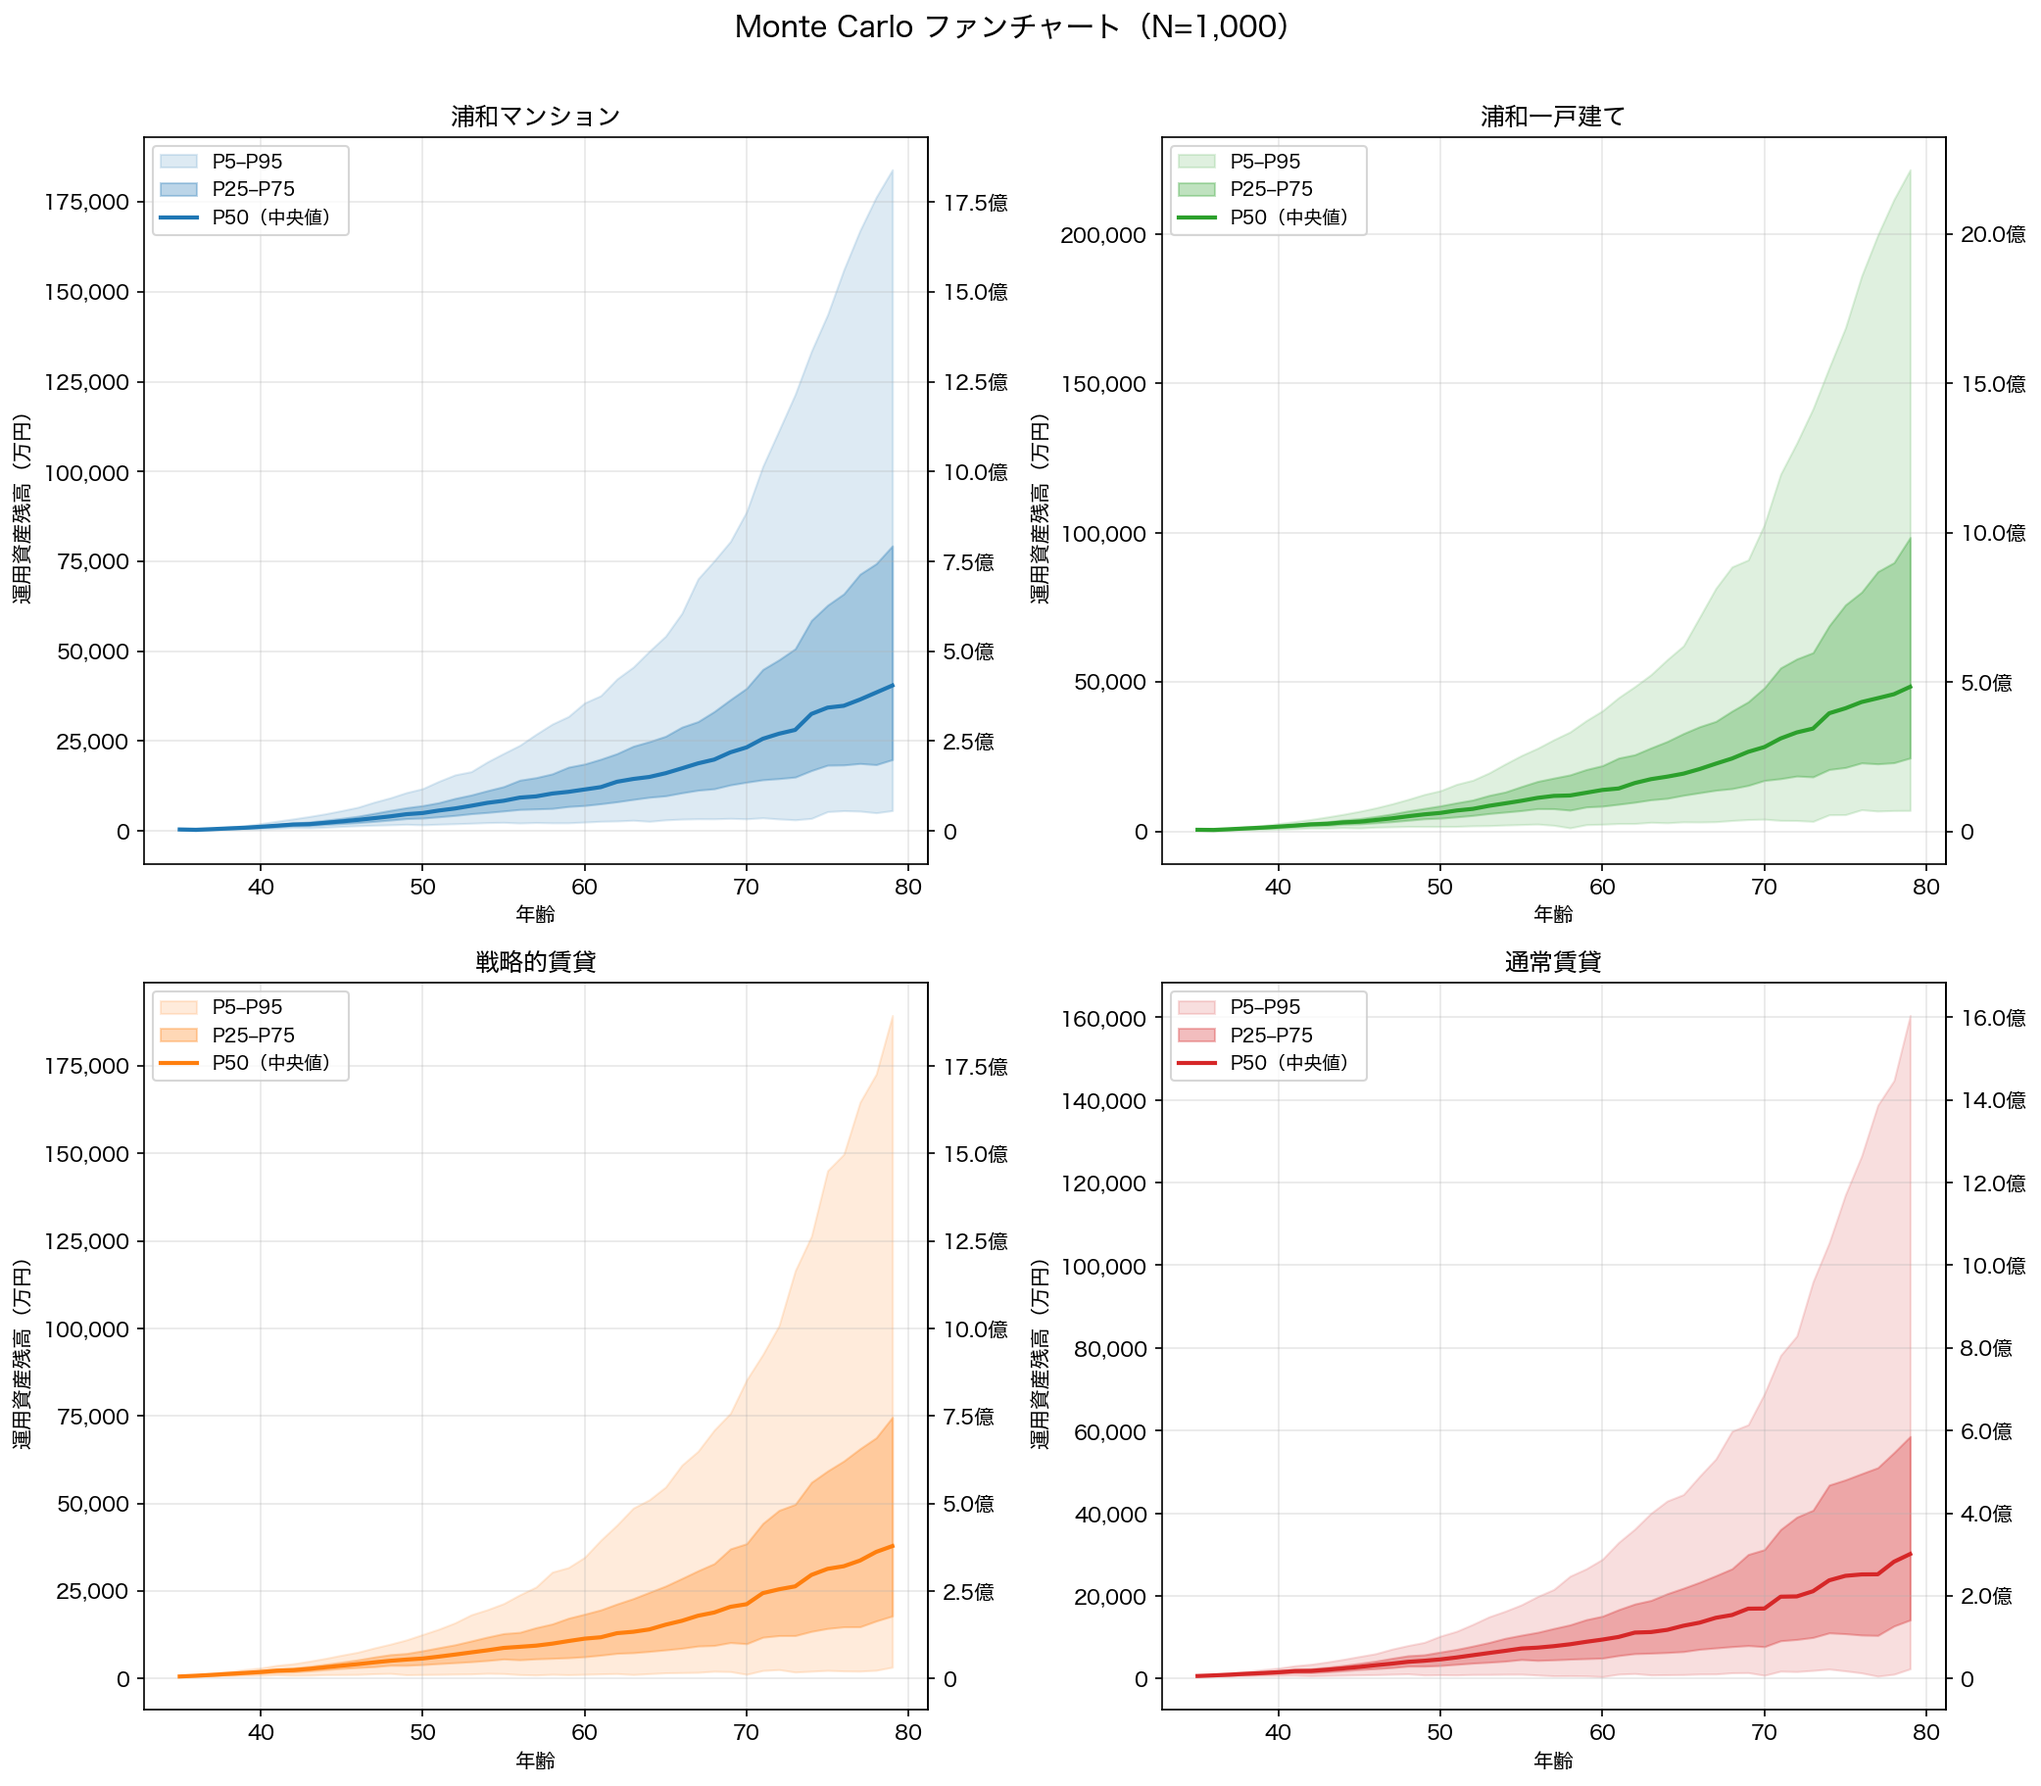
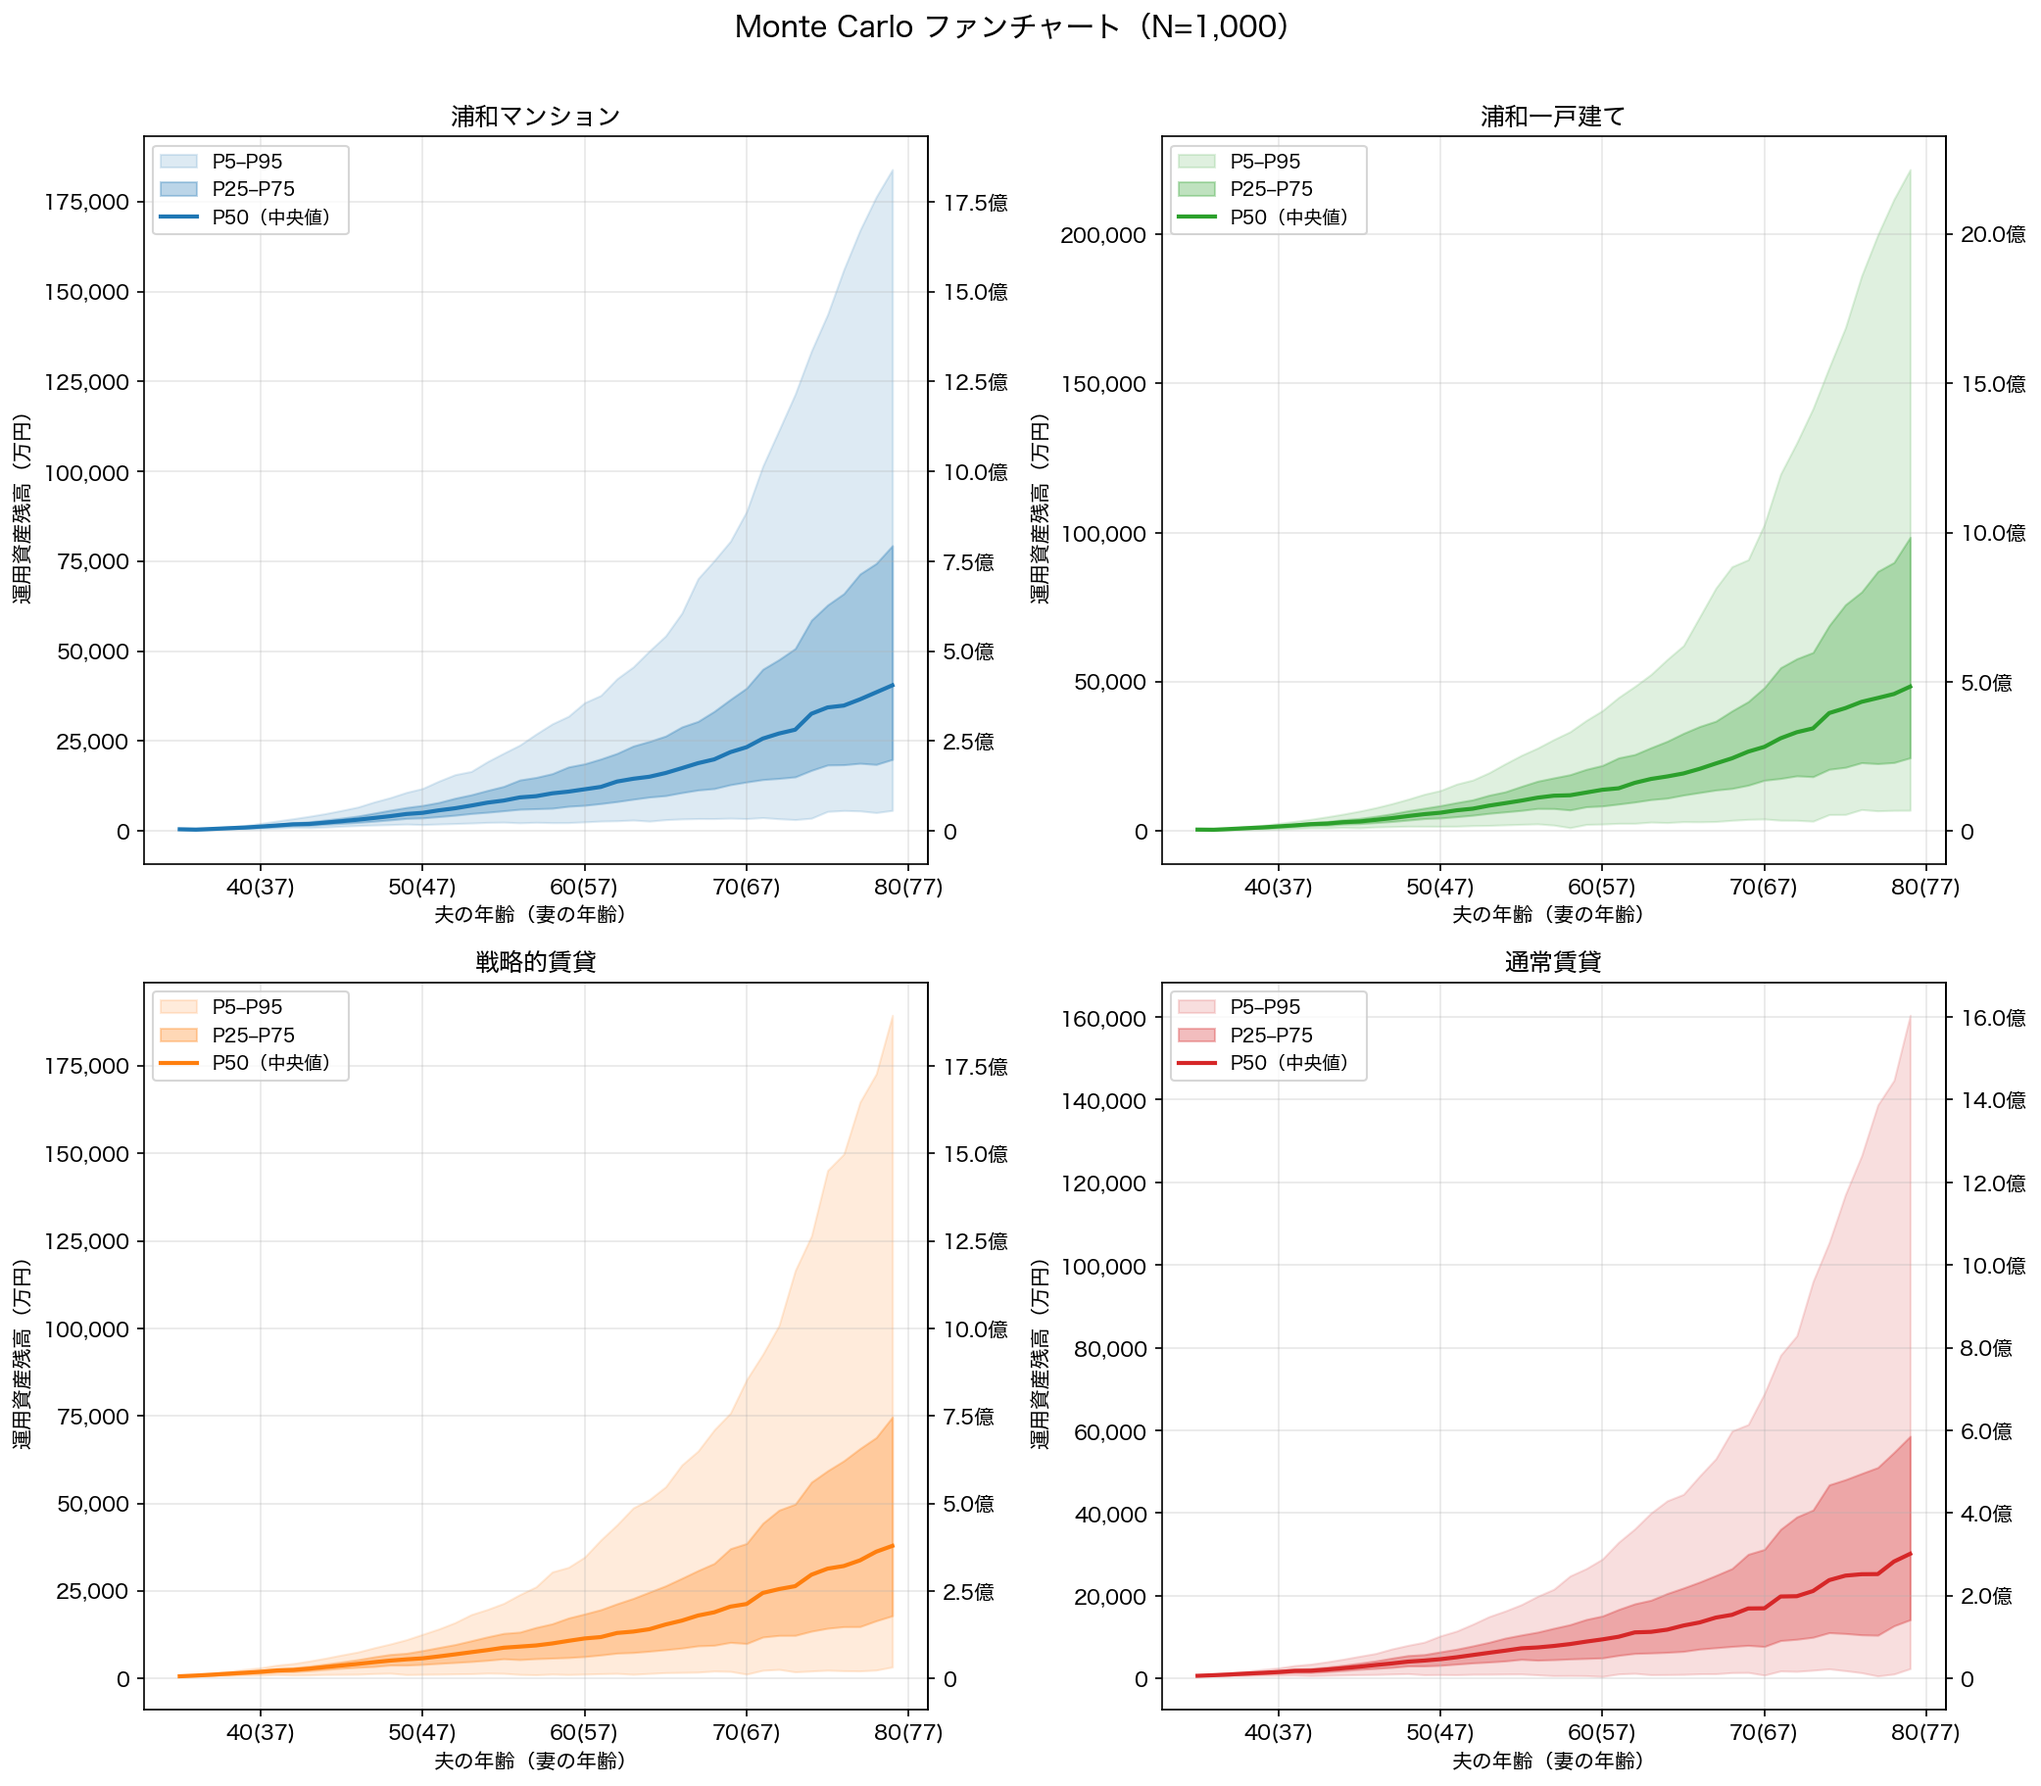
Add dual-age x-axis labels to charts when husband/wife ages differ

diff --git a/housing_sim_jp/charts.py b/housing_sim_jp/charts.py
@@ -135,6 +135,27 @@ def _draw_event_markers(
         )
 
 
+def _format_age_axis(ax: plt.Axes, husband_start_age: int | None, wife_start_age: int | None) -> None:
+    """Format x-axis to show both spouses' ages when they differ.
+
+    Displays younger age as primary, elder age in parentheses.
+    E.g., husband=37, wife=35 → tick "35(37)", xlabel "妻の年齢（夫の年齢）"
+    """
+    if husband_start_age is None or wife_start_age is None:
+        return
+    age_diff = abs(husband_start_age - wife_start_age)
+    if age_diff == 0:
+        return
+    if husband_start_age > wife_start_age:
+        elder_label, younger_label = "夫", "妻"
+    else:
+        elder_label, younger_label = "妻", "夫"
+    ax.xaxis.set_major_formatter(
+        ticker.FuncFormatter(lambda x, _: f"{int(x)}({int(x) - age_diff})")
+    )
+    ax.set_xlabel(f"{elder_label}の年齢（{younger_label}の年齢）")
+
+
 def _format_oku_axis(ax: plt.Axes):
     """Add 億円 labels on Y axis (secondary tick labels)."""
     ax.yaxis.set_major_formatter(
@@ -152,6 +173,8 @@ def plot_trajectory(
     event_markers: list[tuple[int, float, str]] | None = None,
     initial_principal: float | None = None,
     investment_return: float | None = None,
+    husband_start_age: int | None = None,
+    wife_start_age: int | None = None,
 ) -> Path:
     """Generate a line chart of asset trajectory for deterministic simulation.
 
@@ -194,6 +217,7 @@ def plot_trajectory(
     ax.legend(loc="upper left")
     ax.grid(True, alpha=0.3)
     _format_oku_axis(ax)
+    _format_age_axis(ax, husband_start_age, wife_start_age)
 
     if event_markers:
         _draw_event_markers(ax, event_markers, y_base_ratio=0.05)
@@ -211,6 +235,8 @@ def plot_mc_fan(
     mc_results: list[MonteCarloResult],
     output_path: Path,
     name: str = "",
+    husband_start_age: int | None = None,
+    wife_start_age: int | None = None,
 ) -> Path:
     """Generate a fan chart (P5-P95 bands) for Monte Carlo results.
 
@@ -260,6 +286,7 @@ def plot_mc_fan(
         ax.legend(loc="upper left", fontsize=9)
         ax.grid(True, alpha=0.3)
         _format_oku_axis(ax)
+        _format_age_axis(ax, husband_start_age, wife_start_age)
 
     # Hide unused subplots
     for idx in range(n, rows * cols):
@@ -283,6 +310,8 @@ def plot_cashflow_stack(
     output_path: Path,
     name: str = "",
     per_result_markers: list[list[tuple[int, float, str]]] | None = None,
+    husband_start_age: int | None = None,
+    wife_start_age: int | None = None,
 ) -> Path:
     """Generate stacked cashflow charts (income vs expenses) per strategy.
 
@@ -371,6 +400,7 @@ def plot_cashflow_stack(
         ax.axhline(0, color="black", linewidth=2.0, linestyle="-", zorder=5)
         ax.grid(True, alpha=0.3)
         ax.legend(loc="upper left", fontsize=9)
+        _format_age_axis(ax, husband_start_age, wife_start_age)
 
     # Hide unused subplots
     for idx in range(len(results), rows * cols):

diff --git a/housing_sim_jp/chart_cli.py b/housing_sim_jp/chart_cli.py
@@ -115,10 +115,14 @@ def main():
             det_results, output_dir, name=chart_name, event_markers=shared_markers,
             initial_principal=savings,
             investment_return=params.investment_return,
+            husband_start_age=husband_age, wife_start_age=wife_age,
         )
         print(f"  → {path}", file=sys.stderr)
 
-        path = plot_cashflow_stack(det_results, output_dir, name=chart_name)
+        path = plot_cashflow_stack(
+            det_results, output_dir, name=chart_name,
+            husband_start_age=husband_age, wife_start_age=wife_age,
+        )
         print(f"  → {path}", file=sys.stderr)
     else:
         print("  確定論: 有効な結果なし", file=sys.stderr)
@@ -139,7 +143,10 @@ def main():
         )
         valid_mc = [r for r in mc_results if r.yearly_balance_percentiles]
         if valid_mc:
-            path = plot_mc_fan(valid_mc, output_dir, name=chart_name)
+            path = plot_mc_fan(
+                valid_mc, output_dir, name=chart_name,
+                husband_start_age=husband_age, wife_start_age=wife_age,
+            )
             print(f"  → {path}", file=sys.stderr)
         else:
             print("  MC: 有効な結果なし", file=sys.stderr)

diff --git a/housing_sim_jp/report.py b/housing_sim_jp/report.py
@@ -247,8 +247,12 @@ def build_report_context(
         plot_trajectory(
             det_results, chart_dir, name=name, event_markers=shared_markers,
             initial_principal=savings, investment_return=params.investment_return,
+            husband_start_age=husband_age, wife_start_age=wife_age,
         )
-        plot_cashflow_stack(det_results, chart_dir, name=name)
+        plot_cashflow_stack(
+            det_results, chart_dir, name=name,
+            husband_start_age=husband_age, wife_start_age=wife_age,
+        )
 
     # ---- 5 Scenarios ----
     print("5シナリオ×4戦略...", file=sys.stderr)
@@ -295,7 +299,10 @@ def build_report_context(
         )
         valid_mc = [r for r in mc_results if r.yearly_balance_percentiles]
         if valid_mc:
-            plot_mc_fan(valid_mc, chart_dir, name=name)
+            plot_mc_fan(
+                valid_mc, chart_dir, name=name,
+                husband_start_age=husband_age, wife_start_age=wife_age,
+            )
 
         # Stress test
         print("  ストレステスト...", file=sys.stderr)
